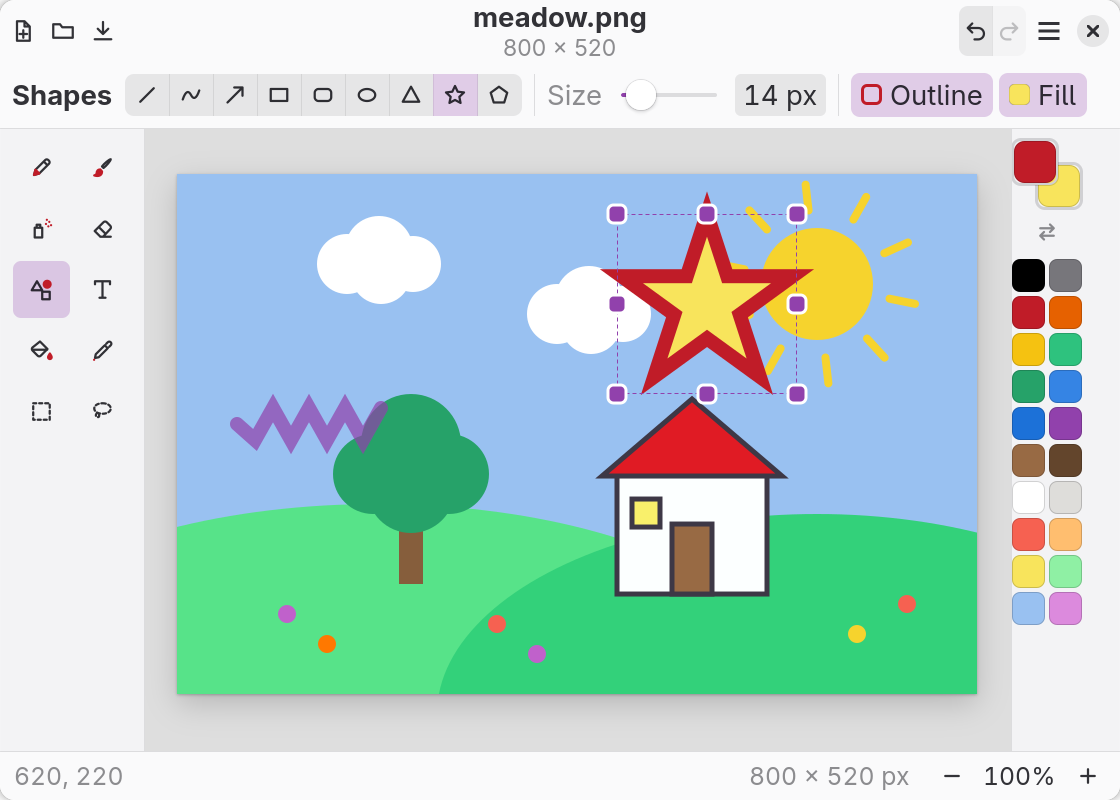
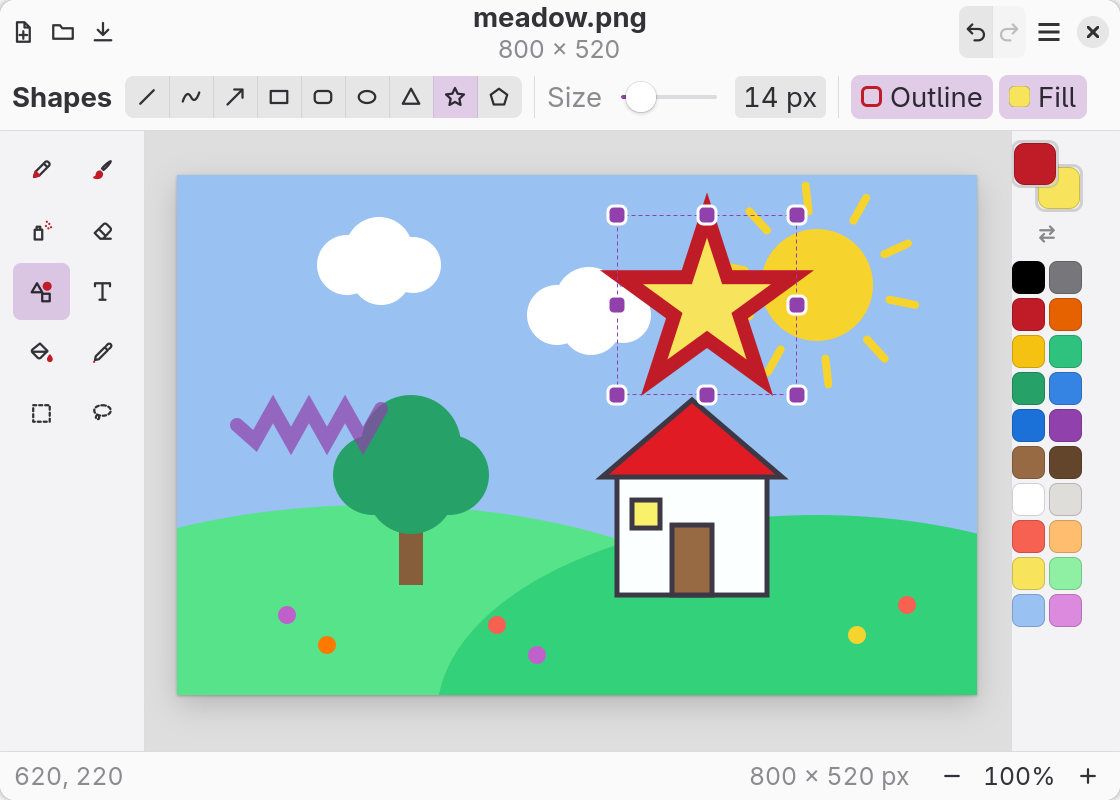
Draw the image size under the title a little larger
libadwaita's subtitle size is hard to read, and at it some fonts, such as
FiraCode, lose the top row of their digits, so "800" reads as clipped.
The subtitle now matches the status bar's 0.9em. The screenshots are
taken again to match.

diff --git a/data/style.css b/data/style.css
@@ -30,6 +30,13 @@
   padding: 0 12px;
 }
 
+/* The image size under the title. libadwaita's "smaller" size is too small
+   to read comfortably, and some fonts lose the top row of their digits at
+   it; this matches the status bar. */
+windowtitle .subtitle {
+  font-size: 0.9em;
+}
+
 .tempera-status-bar {
   padding: 0 10px 0 14px;
   font-size: 0.9em;
